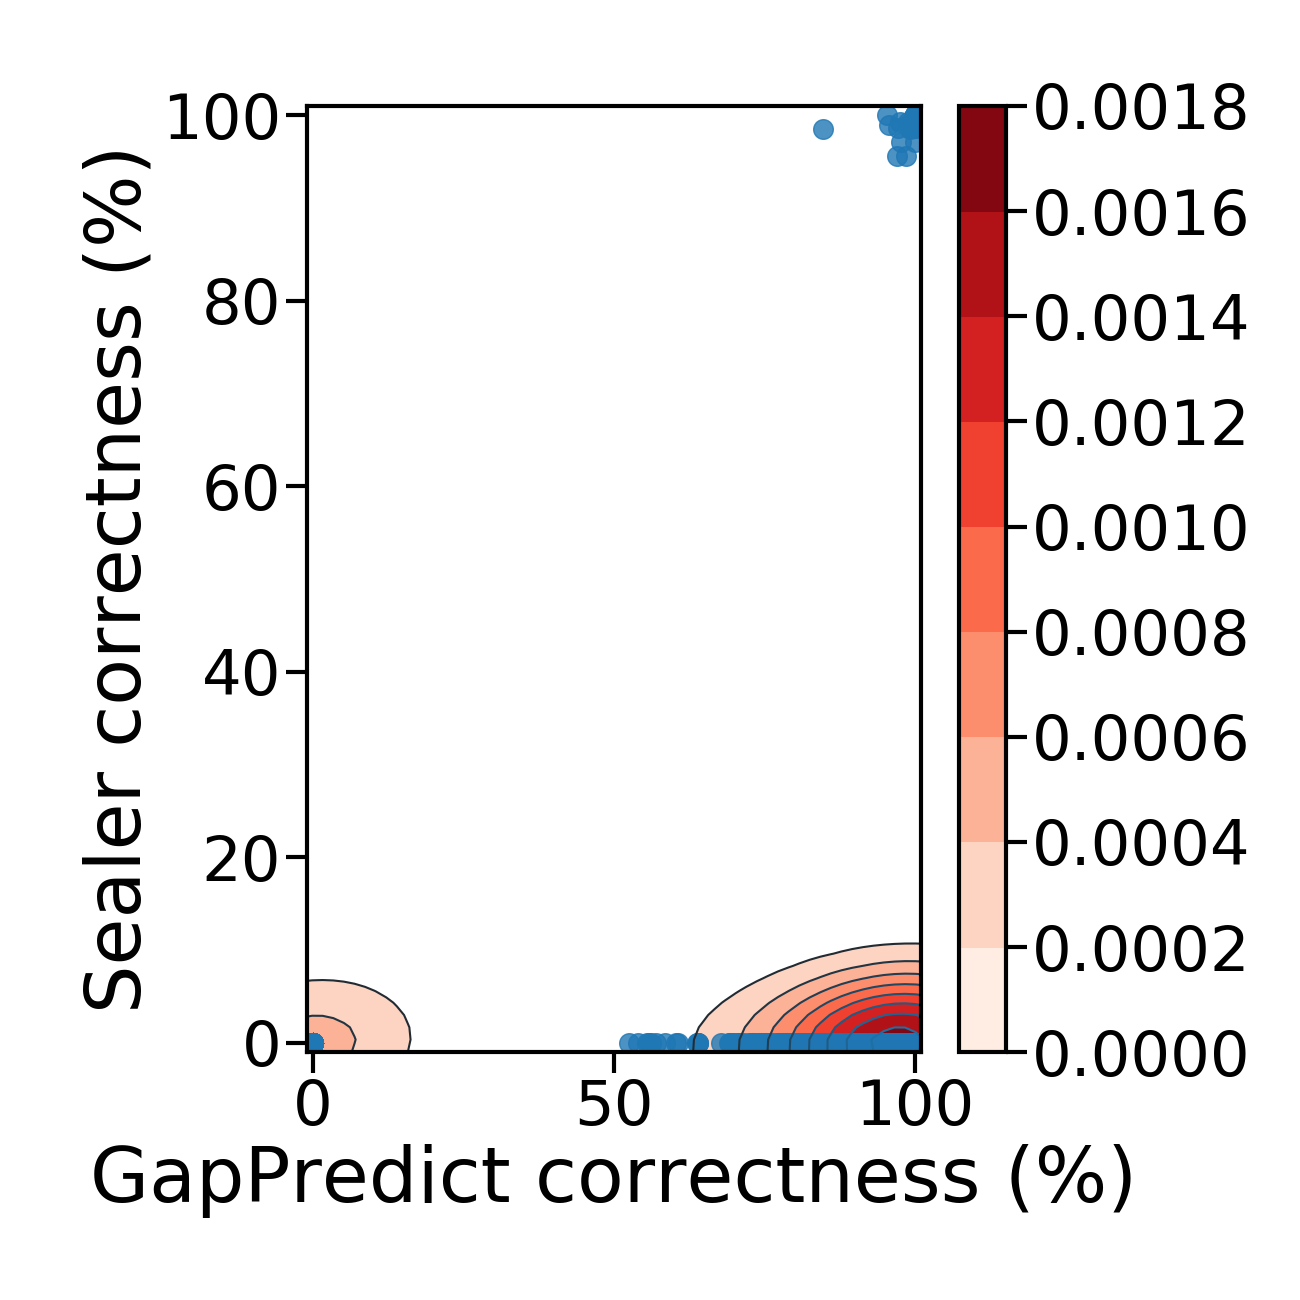
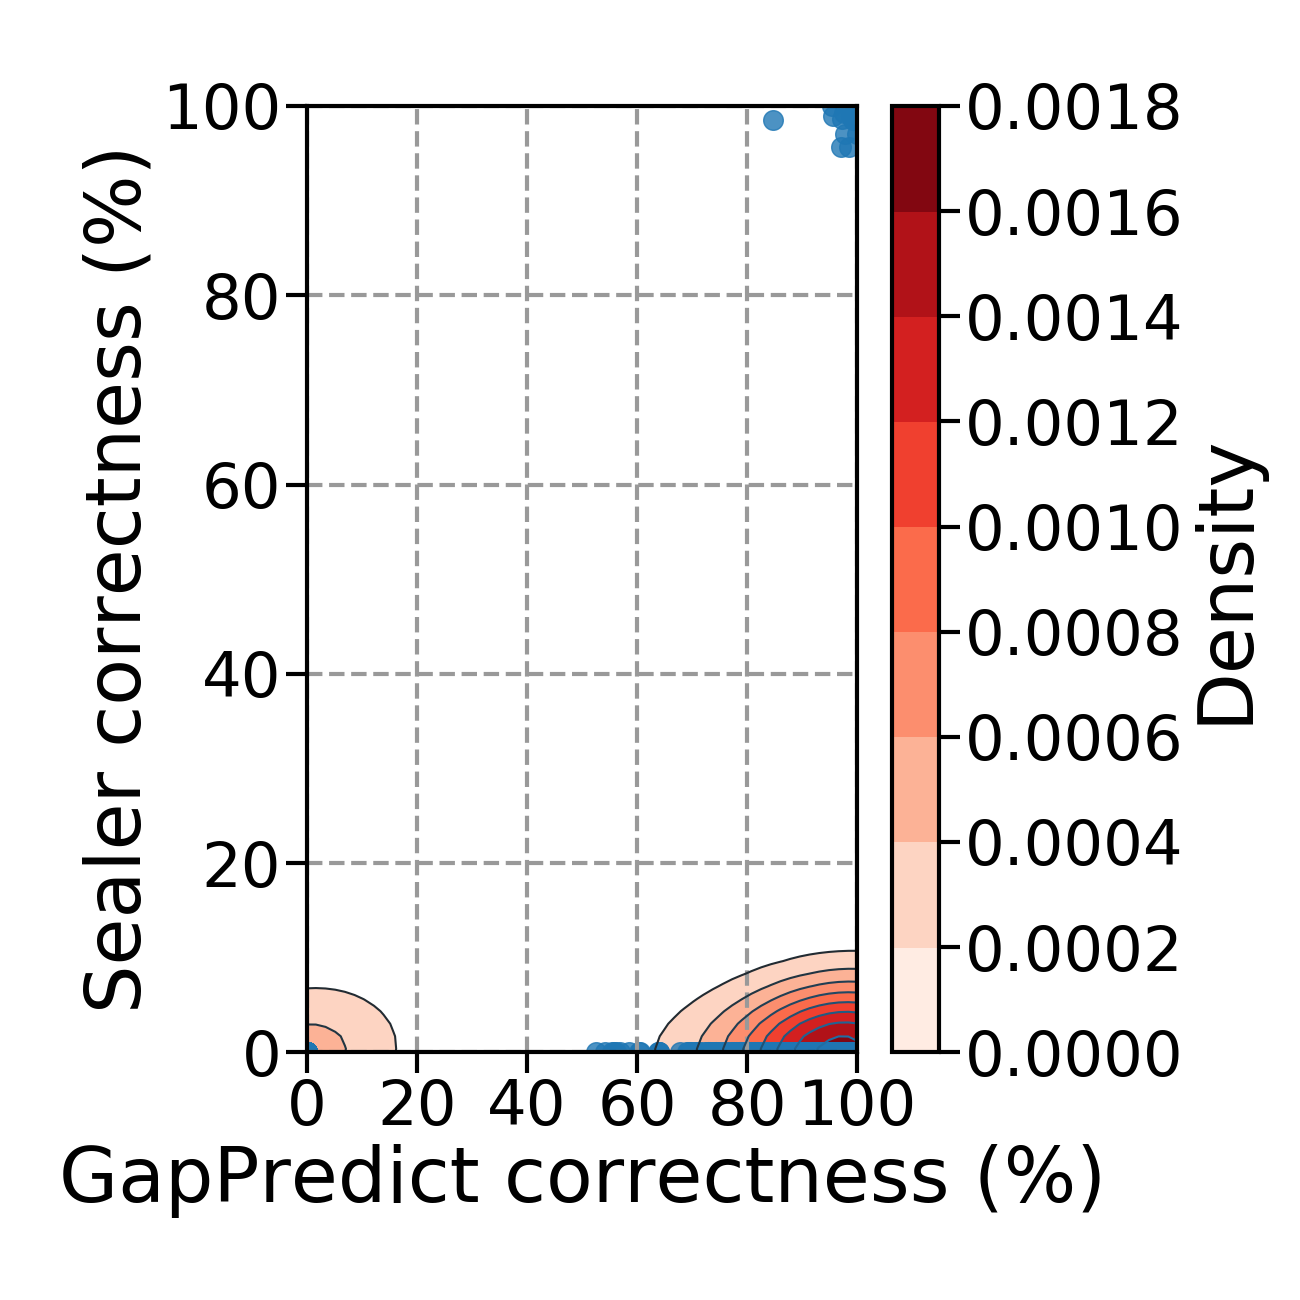
Fix most of the comments about the images
1) 4 sig figs for colour bar
2) colour bar label
3) major gridlines

still need to figure out how to make the x axis
length match the y axis with a colourbar

diff --git a/lib/data/helper_scripts/data_crunching/wrangle_csv.py b/lib/data/helper_scripts/data_crunching/wrangle_csv.py
@@ -72,6 +72,7 @@ def transform_dataframe(df, predict_from_left):
     df['gap_pass'] = gap_pass
 
 def plot_comparison_scatter(data, file_path, app_name):
+    #TODO: 4) same x and y axis lengths
     plt.rc('xtick', labelsize=secondary_text_font_size)
     plt.rc('ytick', labelsize=secondary_text_font_size)
     font = {
@@ -87,11 +88,15 @@ def plot_comparison_scatter(data, file_path, app_name):
     y = data["target_correctness"] * 100
 
     sns.kdeplot(x, y)
-    sns.kdeplot(x, y, cmap="Reds", shade=True, shade_lowest=False, cbar=True)
-    plt.scatter(x, y, s=200, alpha=0.8)
+    sns.kdeplot(x, y, cmap="Reds", shade=True, shade_lowest=False, cbar=True, cbar_kws={"format": "%.4f", "label": "Density"})
 
-    plt.xlim((-1, 101))
-    plt.ylim((-1, 101))
+    plt.scatter(x, y, s=200, alpha=0.8)
+    plt.grid(b=True, axis="both", which="major", color="0.6", linestyle='--', linewidth=3)
+
+    plt.xlim((0, 100))
+    plt.xticks(np.arange(0, 101, step=20))
+    plt.ylim((0, 100))
+    plt.yticks(np.arange(0, 101, step=20))
     plt.xlabel('GapPredict correctness (%)')
     plt.ylabel(app_name + ' correctness (%)')
 
@@ -115,13 +120,16 @@ def plot_scatter(data, file_path):
     y = data["query_gap_coverage"]*100
 
     sns.kdeplot(x, y)
-    ax = sns.kdeplot(x, y, cmap="Reds", shade=True, shade_lowest=False, cbar=True)
+    ax = sns.kdeplot(x, y, cmap="Reds", shade=True, shade_lowest=False, cbar=True, cbar_kws={"format": "%.4f", "label": "Density"})
     ax.figure.axes[-1].tick_params(axis='both', which='major', labelsize=35)
 
     plt.scatter(x, y, alpha=0.8, s=200)
+    plt.grid(b=True, axis="both", which="major", color="0.6", linestyle='--', linewidth=3)
 
-    plt.xlim((-1, 101))
-    plt.ylim((-1, 101))
+    plt.xlim((0, 100))
+    plt.xticks(np.arange(0, 101, step=20))
+    plt.ylim((0, 100))
+    plt.yticks(np.arange(0, 101, step=20))
     plt.xlabel('Target correctness (%)')
     plt.ylabel('Query coverage (%)')
 
